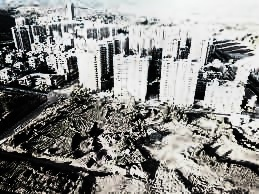
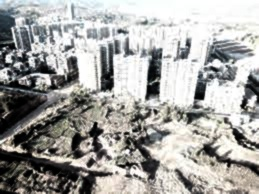
Add Edge_Intensity_HE

diff --git a/eihe.py b/eihe.py
@@ -1,0 +1,117 @@
+import numpy as np
+import cv2 as cv
+from utils import *
+
+# 计算边缘强度
+def calculate_edge_intensity(vb):
+    h, w = vb.shape
+    edge_intensity = np.zeros_like(vb, dtype=np.float32)
+    
+    for y in range(1, h-1):
+        for x in range(1, w-1):
+            center = int(vb[y, x])
+            neighbors = [
+                int(vb[y-1, x-1]), int(vb[y-1, x]), int(vb[y-1, x+1]),
+                int(vb[y, x-1]), int(vb[y, x+1]),
+                int(vb[y+1, x-1]), int(vb[y+1, x]), int(vb[y+1, x+1])
+            ]
+            edge_intensity[y, x] = sum(abs(center - n) for n in neighbors)
+    
+    return edge_intensity
+
+def compute_edge_intensity_histogram(edge_intensity, vb):
+    L = 256
+    E = np.zeros(L, dtype=np.float32)
+    
+    for m in range(L):
+        E[m] = np.sum(edge_intensity[vb == m])
+    
+    return E
+
+def compute_transformation_function(E, alpha=0.5):
+    L = 256
+    # 计算CDF
+    F = np.cumsum(E)
+    F = F / F[-1]  # 归一化
+    
+    # 应用幂律变换
+    F_power = F ** alpha
+    
+    # 计算变换函数
+    T = ((L - 1) * F_power).astype(np.uint8)
+    
+    return T
+
+# 自动判断图像亮度，决定alpha值
+def determine_alpha(image, threshold=0.5):
+    # 计算图像亮度的归一化直方图
+    hist, bins = np.histogram(image.flatten(), 256, [0, 256])
+    normalized_hist = hist / hist.sum()
+    
+    # 计算图像的平均亮度
+    mean_brightness = np.sum(normalized_hist * np.arange(256))
+
+    # 决定 alpha 值
+    if mean_brightness < threshold * 255:
+        # 图像整体偏暗
+        alpha = 0.5 
+    else:
+        # 图像整体偏亮
+        alpha = 1.1  
+
+    return alpha
+
+def edge_intensity_histogram_equalization(image):
+    # rgb to hsv
+    image_hsv = cv.cvtColor(image, cv.COLOR_BGR2HSV)
+    h, s, v = cv.split(image_hsv)
+
+    # 分成基底层Vd和细节层Vb处理
+    # 定义3x3低通滤波器核
+    lpf_kernel = np.array([[1, 2, 1], 
+                       [2, 4, 2], 
+                       [1, 2, 1]], dtype=np.float32) / 16.0
+
+    # 应用自定义低通滤波器获得基底层Vb
+    vb = cv.filter2D(v, -1, lpf_kernel)
+
+    # 计算细节层 Vd
+    vd = cv.subtract(v, vb)
+
+    # 计算边缘强度
+    edge_intensity = calculate_edge_intensity(vb)
+    
+    # 计算边缘强度直方图
+    E = compute_edge_intensity_histogram(edge_intensity, vb)
+
+    # 计算变换函数
+    alpha = determine_alpha(v, 0.5)
+    print(alpha)
+    T = compute_transformation_function(E, alpha)
+
+    # 应用变换函数
+    equalized_vb = T[vb]
+
+    # 计算 equalized_vd
+    # 防止除以零
+    epsilon = 1e-8  # 一个非常小的常数
+    equalized_vd = cv.multiply(cv.divide(equalized_vb.astype(np.float32), np.maximum(vb.astype(np.float32), epsilon)), vd.astype(np.float32))
+
+    # 确保所有值都在 0 到 255 之间
+    equalized_vd = np.clip(equalized_vd, 0, 255)
+    
+    # 计算equalized_v
+    equalized_v = cv.add(equalized_vb, equalized_vd.astype(np.uint8))
+    equalized_v = equalized_v.astype(np.uint8)
+
+    equalized_image_hsv = cv.merge([h, s, equalized_v])
+
+    # HSV转换回RGB
+    equalized_image_rgb = cv.cvtColor(equalized_image_hsv, cv.COLOR_HSV2BGR)
+
+    # 显示转换后的图像
+    # cv.imshow('RGB Image', equalized_image_rgb)
+    # cv.waitKey(0)
+    # cv.destroyAllWindows()
+
+    return equalized_image_rgb

diff --git a/main.py b/main.py
@@ -7,12 +7,13 @@ import BBHE
 import DSIHE
 import MMBEBHE
 import CLAHE
+import eihe
 
 DRAW_HISTOGRAM = False
 DRAW_PICS = False
 DRAW_3D_MAP = False
 
-METHOD = ["Histogram_Equalize", "WGIF_Based_Enhance","BBHE","DSIHE","MMBEBHE","DPHE","BHE2PL","CLAHE"][4]
+METHOD = ["Histogram_Equalize", "WGIF_Based_Enhance","BBHE","DSIHE","MMBEBHE","DPHE","BHE2PL","CLAHE", "Edge_Intensity_HE"][8]
 RESTORT_COLOR = True
 
 
@@ -55,6 +56,10 @@ for pic in pic_list:
     elif METHOD == "CLAHE":
         enhanced_gray_img = CLAHE.CLAHE(gray_img, 2.0, (8, 8))
         enhanced_intensity = utils.gray_to_intensity(enhanced_gray_img)
+    elif METHOD == "Edge_Intensity_HE":
+        enhanced_rgb_img = eihe.edge_intensity_histogram_equalization(img)
+        enhanced_gray_img = utils.RGB_to_gray(enhanced_rgb_img)
+        enhanced_intensity = utils.gray_to_intensity(enhanced_gray_img)
     if DRAW_3D_MAP:
         utils.draw_2_matrixs_in_one([gray_img, enhanced_gray_img])
         
@@ -65,9 +70,13 @@ for pic in pic_list:
 
     if RESTORT_COLOR:
         enhanced_img = utils.restort_color(img, intensity, enhanced_intensity)
+        if METHOD == "Edge_Intensity_HE":
+            enhanced_img = enhanced_rgb_img
     else:
         img = gray_img
         enhanced_img = enhanced_gray_img
+        if METHOD == "Edge_Intensity_HE":
+            enhanced_img = enhanced_rgb_img
 
     if DRAW_PICS:
         utils.show_images_concat(img, enhanced_img)

diff --git a/utils.py b/utils.py
@@ -88,7 +88,6 @@ def show_images_concat(img1, img2):
     cv.waitKey(0)
     cv.destroyAllWindows()
 
-
 def draw_histogram(hist, bins):
     plt.figure()
     plt.title("Histogram of Pixel Intensities")
@@ -105,8 +104,15 @@ def draw_histograms_in_one(hist1, bins1, hist2, bins2):
     plt.xlabel("Pixel Intensity")
     plt.ylabel("Frequency")
     plt.xlim([0, 256])  # 设置x轴的范围
-    plt.bar(bins1[:-1], hist1, width=1, align='edge')  # 绘制直方图1
-    plt.bar(bins2[:-1], hist2, width=1, align='edge')  # 绘制直方图2
+    # plt.bar(bins1[:-1], hist1, width=1, align='edge')  # 绘制直方图1
+    # plt.bar(bins2[:-1], hist2, width=1, align='edge')  # 绘制直方图2
+    # 绘制直方图1
+    plt.bar(bins1[:-1], hist1/hist1.sum(), width=1, align='edge', alpha=0.7, label='Original Image')
+
+    # 绘制直方图2
+    plt.bar(bins2[:-1], hist2/hist2.sum(), width=1, align='edge', alpha=0.5, label='After Histogram Equalization')
+
+    plt.legend()  # 添加图例
     plt.show()
 
 
@@ -122,3 +128,4 @@ def restort_color(img, ori, new, eps = 0.001):
 
 def write_img(path, img):
     cv.imwrite(path, img)
+    print(f"Image saved to {path}")
